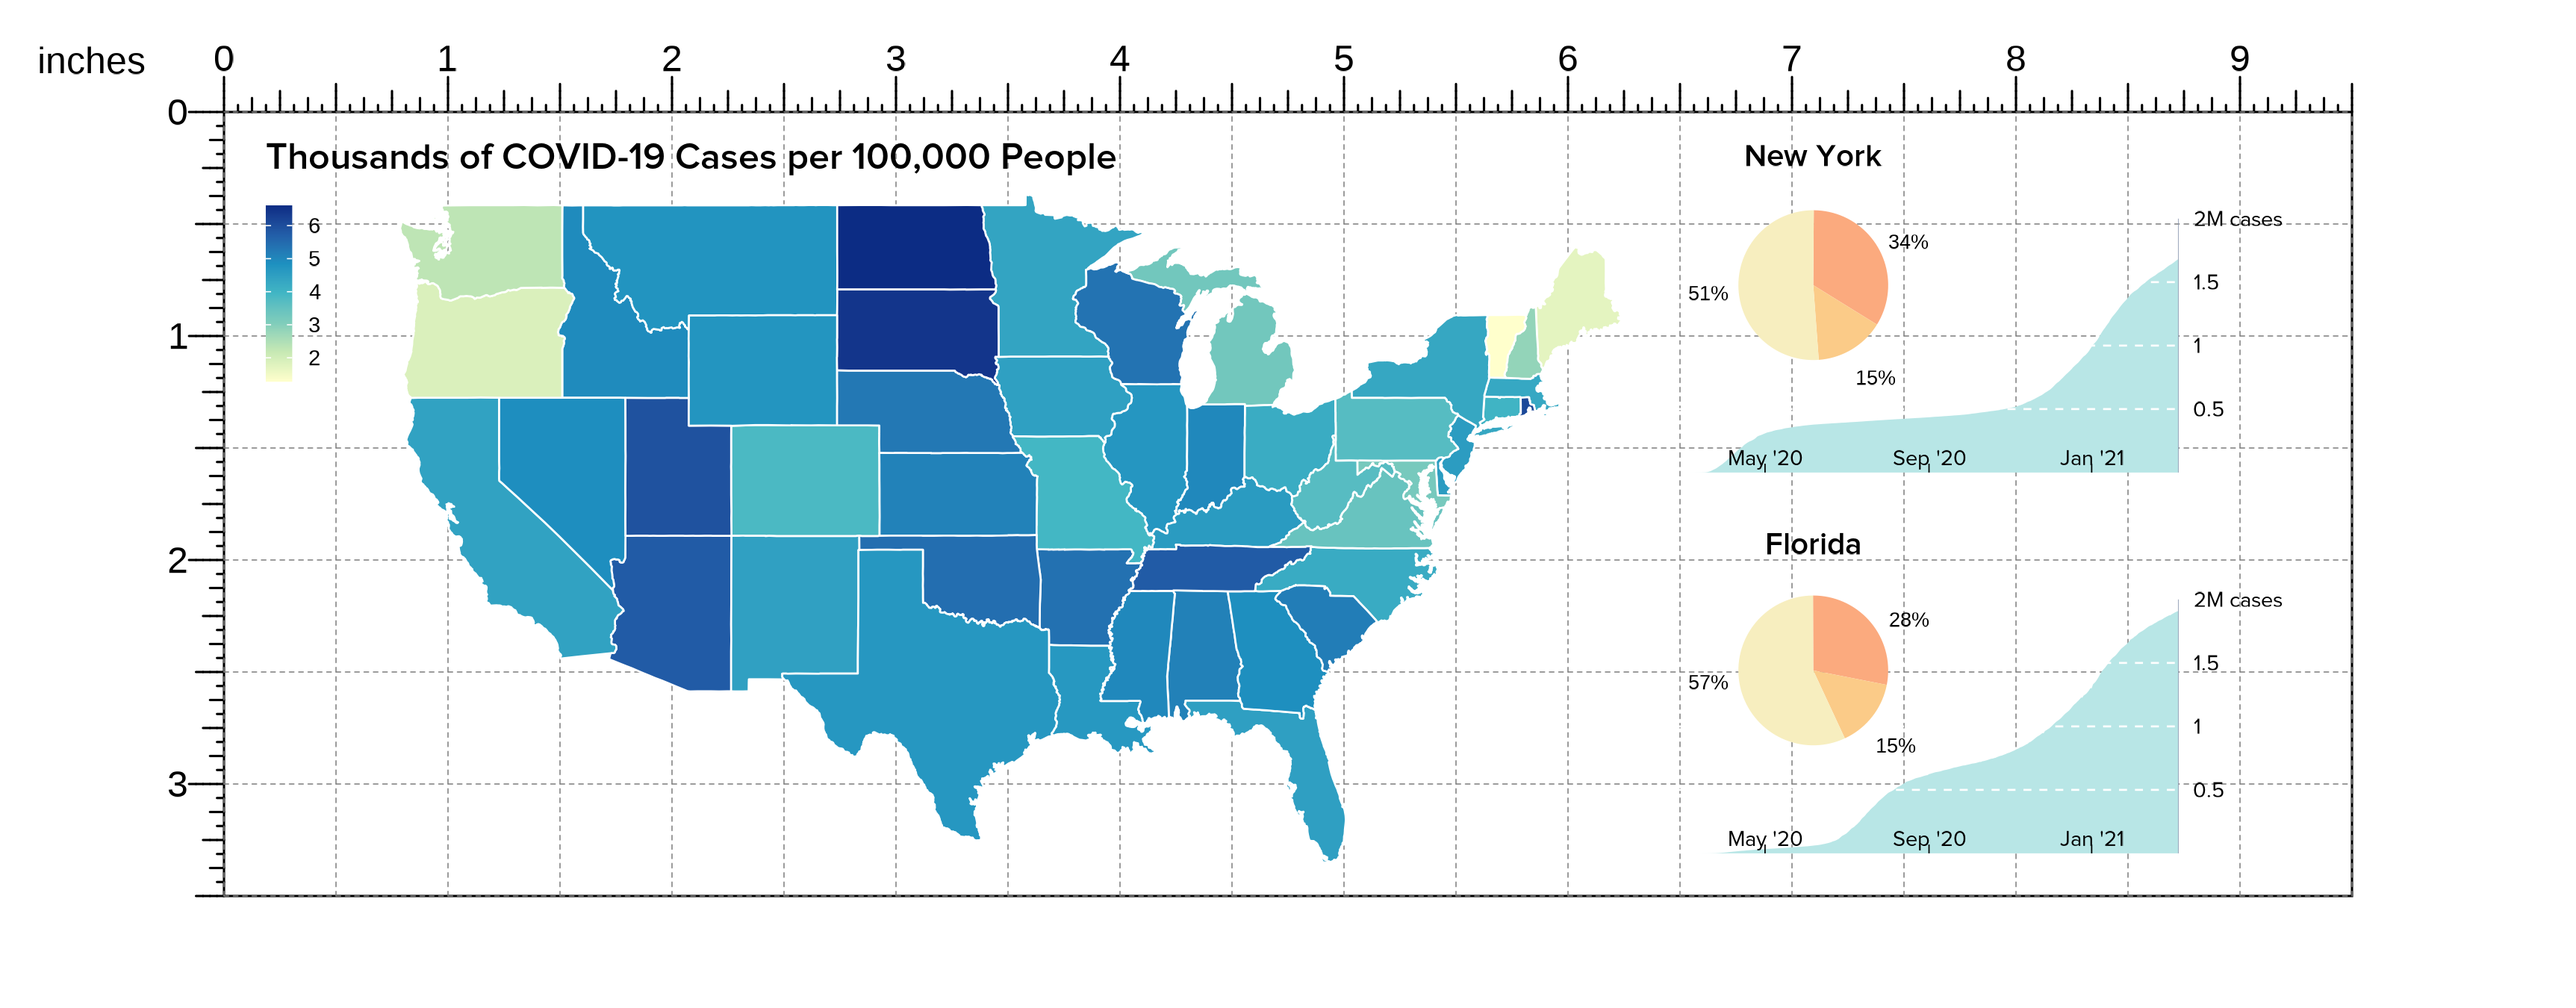
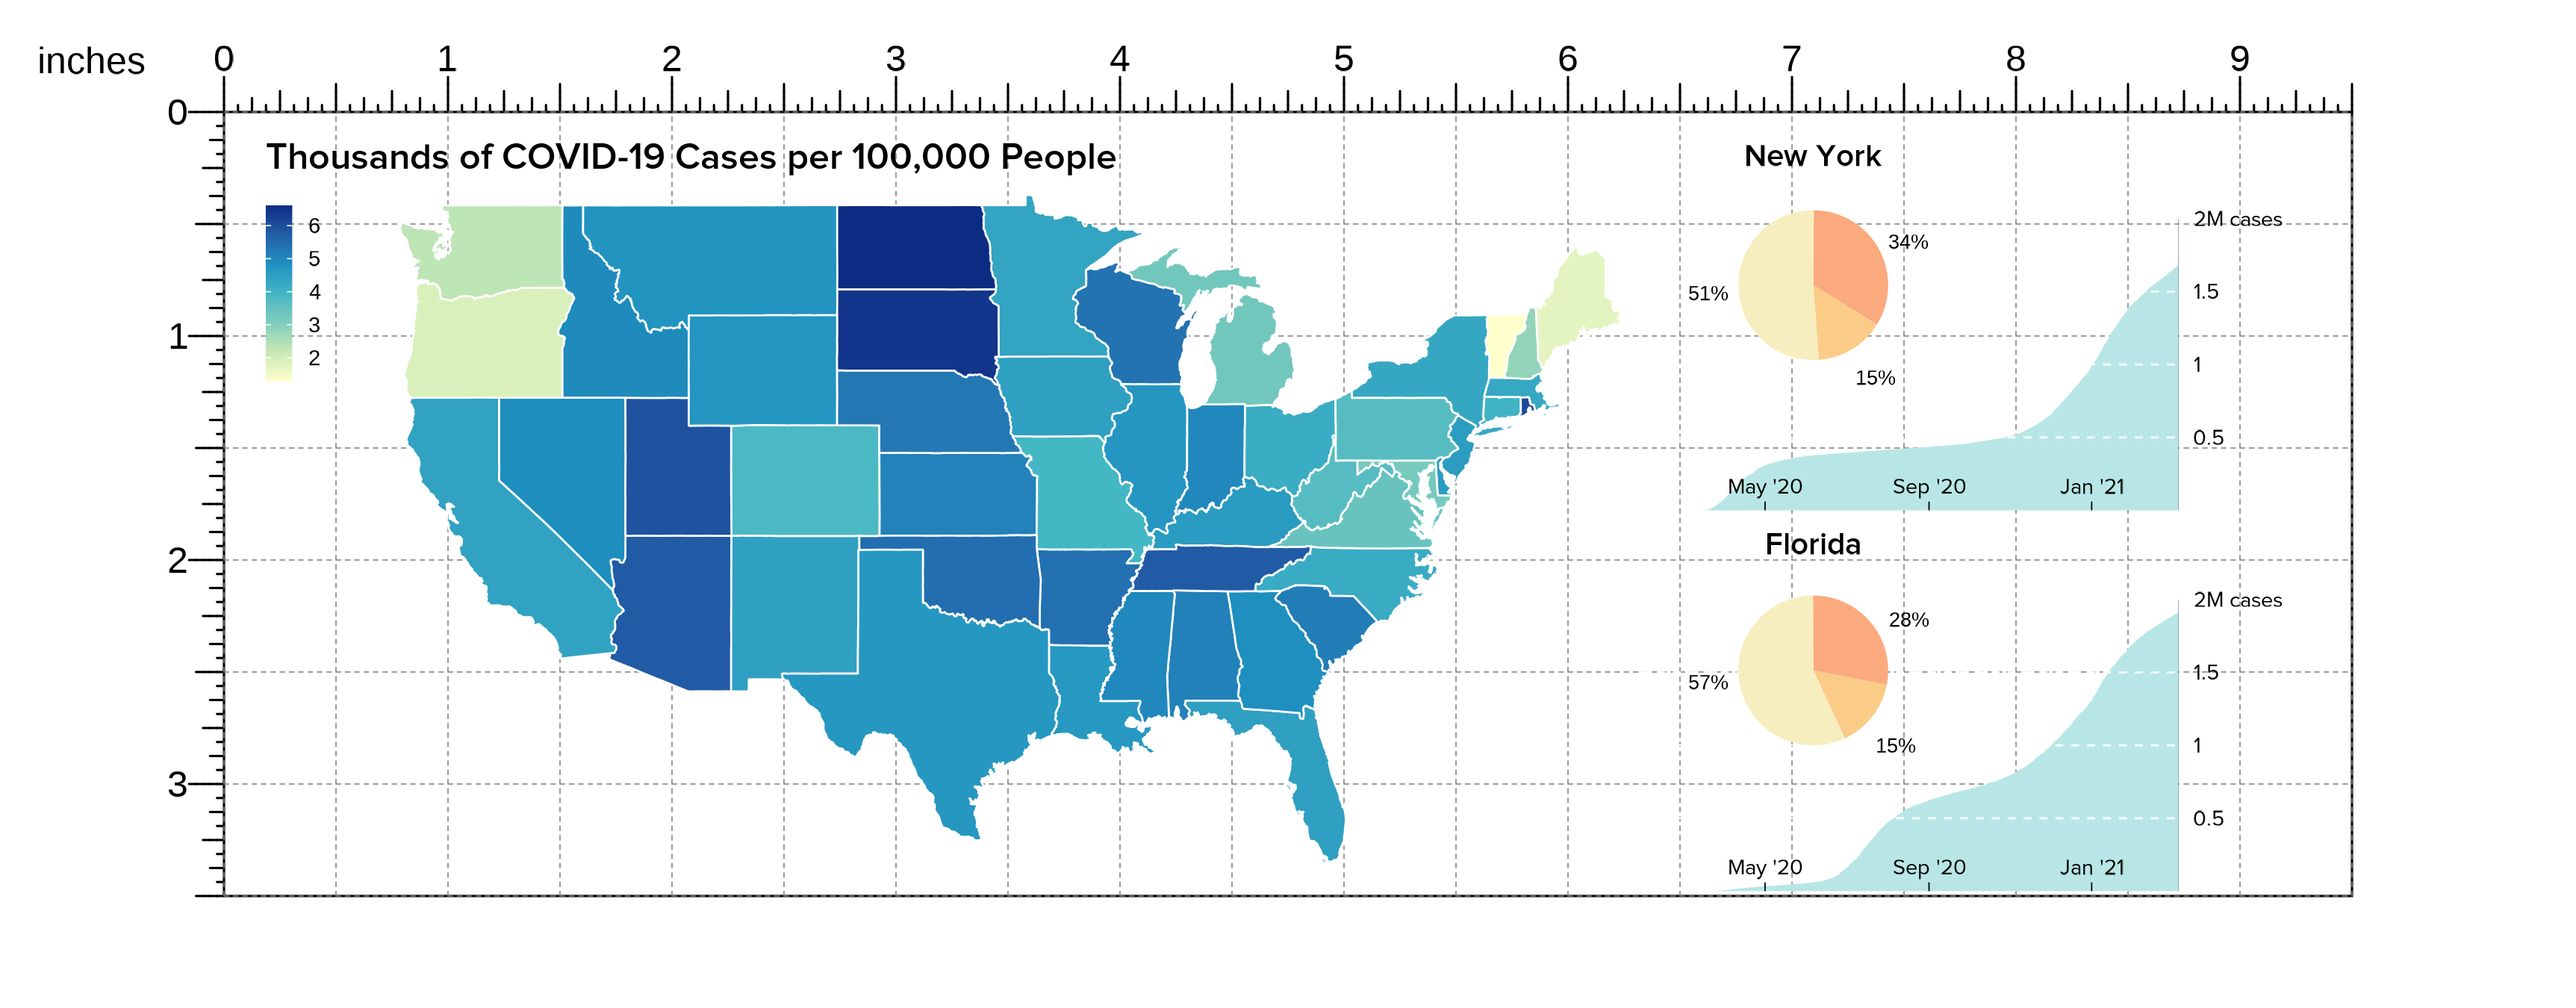
Built site for BentoBox: 0.1.4@
Former-commit-id: 44b007491fafda7086ca28dca7f1c8da855f8a7b

diff --git a/articles/introduction_to_bentobox.html b/articles/introduction_to_bentobox.html
@@ -835,7 +835,7 @@
         axis.line.y <span class="op">=</span> <span class="fu"><a href="https://ggplot2.tidyverse.org/reference/element.html">element_line</a></span><span class="op">(</span>size <span class="op">=</span> <span class="fl">0.1</span>, color <span class="op">=</span> <span class="st">"#8F9BB3"</span><span class="op">)</span>,
         axis.text.x <span class="op">=</span> <span class="fu"><a href="https://ggplot2.tidyverse.org/reference/element.html">element_text</a></span><span class="op">(</span>
             size <span class="op">=</span> <span class="fl">7</span>, hjust <span class="op">=</span> <span class="fl">0.5</span>,
-            vjust <span class="op">=</span> <span class="fl">7.75</span>, color <span class="op">=</span> <span class="st">"black"</span>
+            margin <span class="op">=</span> <span class="fu"><a href="https://ggplot2.tidyverse.org/reference/element.html">margin</a></span><span class="op">(</span>t <span class="op">=</span> <span class="op">-</span><span class="fl">10</span><span class="op">)</span>, color <span class="op">=</span> <span class="st">"black"</span>
         <span class="op">)</span>,
         axis.title.x <span class="op">=</span> <span class="fu"><a href="https://ggplot2.tidyverse.org/reference/element.html">element_blank</a></span><span class="op">(</span><span class="op">)</span>,
         axis.ticks.x <span class="op">=</span> <span class="fu"><a href="https://ggplot2.tidyverse.org/reference/element.html">element_line</a></span><span class="op">(</span>size <span class="op">=</span> <span class="fl">0.2</span>, color <span class="op">=</span> <span class="st">"black"</span><span class="op">)</span>,
@@ -889,7 +889,7 @@
         axis.text.y <span class="op">=</span> <span class="fu"><a href="https://ggplot2.tidyverse.org/reference/element.html">element_text</a></span><span class="op">(</span>size <span class="op">=</span> <span class="fl">7</span>, color <span class="op">=</span> <span class="st">"black"</span><span class="op">)</span>,
         axis.text.x <span class="op">=</span> <span class="fu"><a href="https://ggplot2.tidyverse.org/reference/element.html">element_text</a></span><span class="op">(</span>
             size <span class="op">=</span> <span class="fl">7</span>, hjust <span class="op">=</span> <span class="fl">0.5</span>,
-            vjust <span class="op">=</span> <span class="fl">7.75</span>, color <span class="op">=</span> <span class="st">"black"</span>
+            margin <span class="op">=</span> <span class="fu"><a href="https://ggplot2.tidyverse.org/reference/element.html">margin</a></span><span class="op">(</span>t <span class="op">=</span> <span class="op">-</span><span class="fl">10</span><span class="op">)</span>, color <span class="op">=</span> <span class="st">"black"</span>
         <span class="op">)</span>,
         axis.ticks <span class="op">=</span> <span class="fu"><a href="https://ggplot2.tidyverse.org/reference/element.html">element_line</a></span><span class="op">(</span>color <span class="op">=</span> <span class="st">"black"</span>, size <span class="op">=</span> <span class="fl">0.2</span><span class="op">)</span>,
         axis.ticks.y <span class="op">=</span> <span class="fu"><a href="https://ggplot2.tidyverse.org/reference/element.html">element_blank</a></span><span class="op">(</span><span class="op">)</span>,

diff --git a/articles/guides/aesthetics.html b/articles/guides/aesthetics.html
@@ -230,7 +230,8 @@
 <span class="co">#&gt; 15554867 chr21 28000500 28000536      +</span></code></pre></div>
 <p>Thus, we can use the <code>colorby</code> constructor to color BED elements by positive or negative strand. The <code>strand</code> column will be converted to a factor with a <code><a href="https://rdrr.io/r/base/Arithmetic.html">-</a></code> level and <code><a href="https://rdrr.io/r/base/Arithmetic.html">+</a></code> level. These values will be mapped to our input <code>palette</code>:</p>
 <div class="sourceCode" id="cb4"><pre class="downlit sourceCode r">
-<code class="sourceCode R"><span class="fu"><a href="../../reference/bb_plotRanges.html">bb_plotRanges</a></span><span class="op">(</span>
+<code class="sourceCode R"><span class="fu"><a href="https://rdrr.io/r/base/Random.html">set.seed</a></span><span class="op">(</span><span class="fu"><a href="https://rdrr.io/r/base/nrow.html">nrow</a></span><span class="op">(</span><span class="va">bb_bedData</span><span class="op">)</span><span class="op">)</span>
+<span class="fu"><a href="../../reference/bb_plotRanges.html">bb_plotRanges</a></span><span class="op">(</span>
     data <span class="op">=</span> <span class="va">bb_bedData</span>,
     chrom <span class="op">=</span> <span class="st">"chr21"</span>, chromstart <span class="op">=</span> <span class="fl">29073000</span>, chromend <span class="op">=</span> <span class="fl">29074000</span>,
     assembly <span class="op">=</span> <span class="st">"hg19"</span>,
